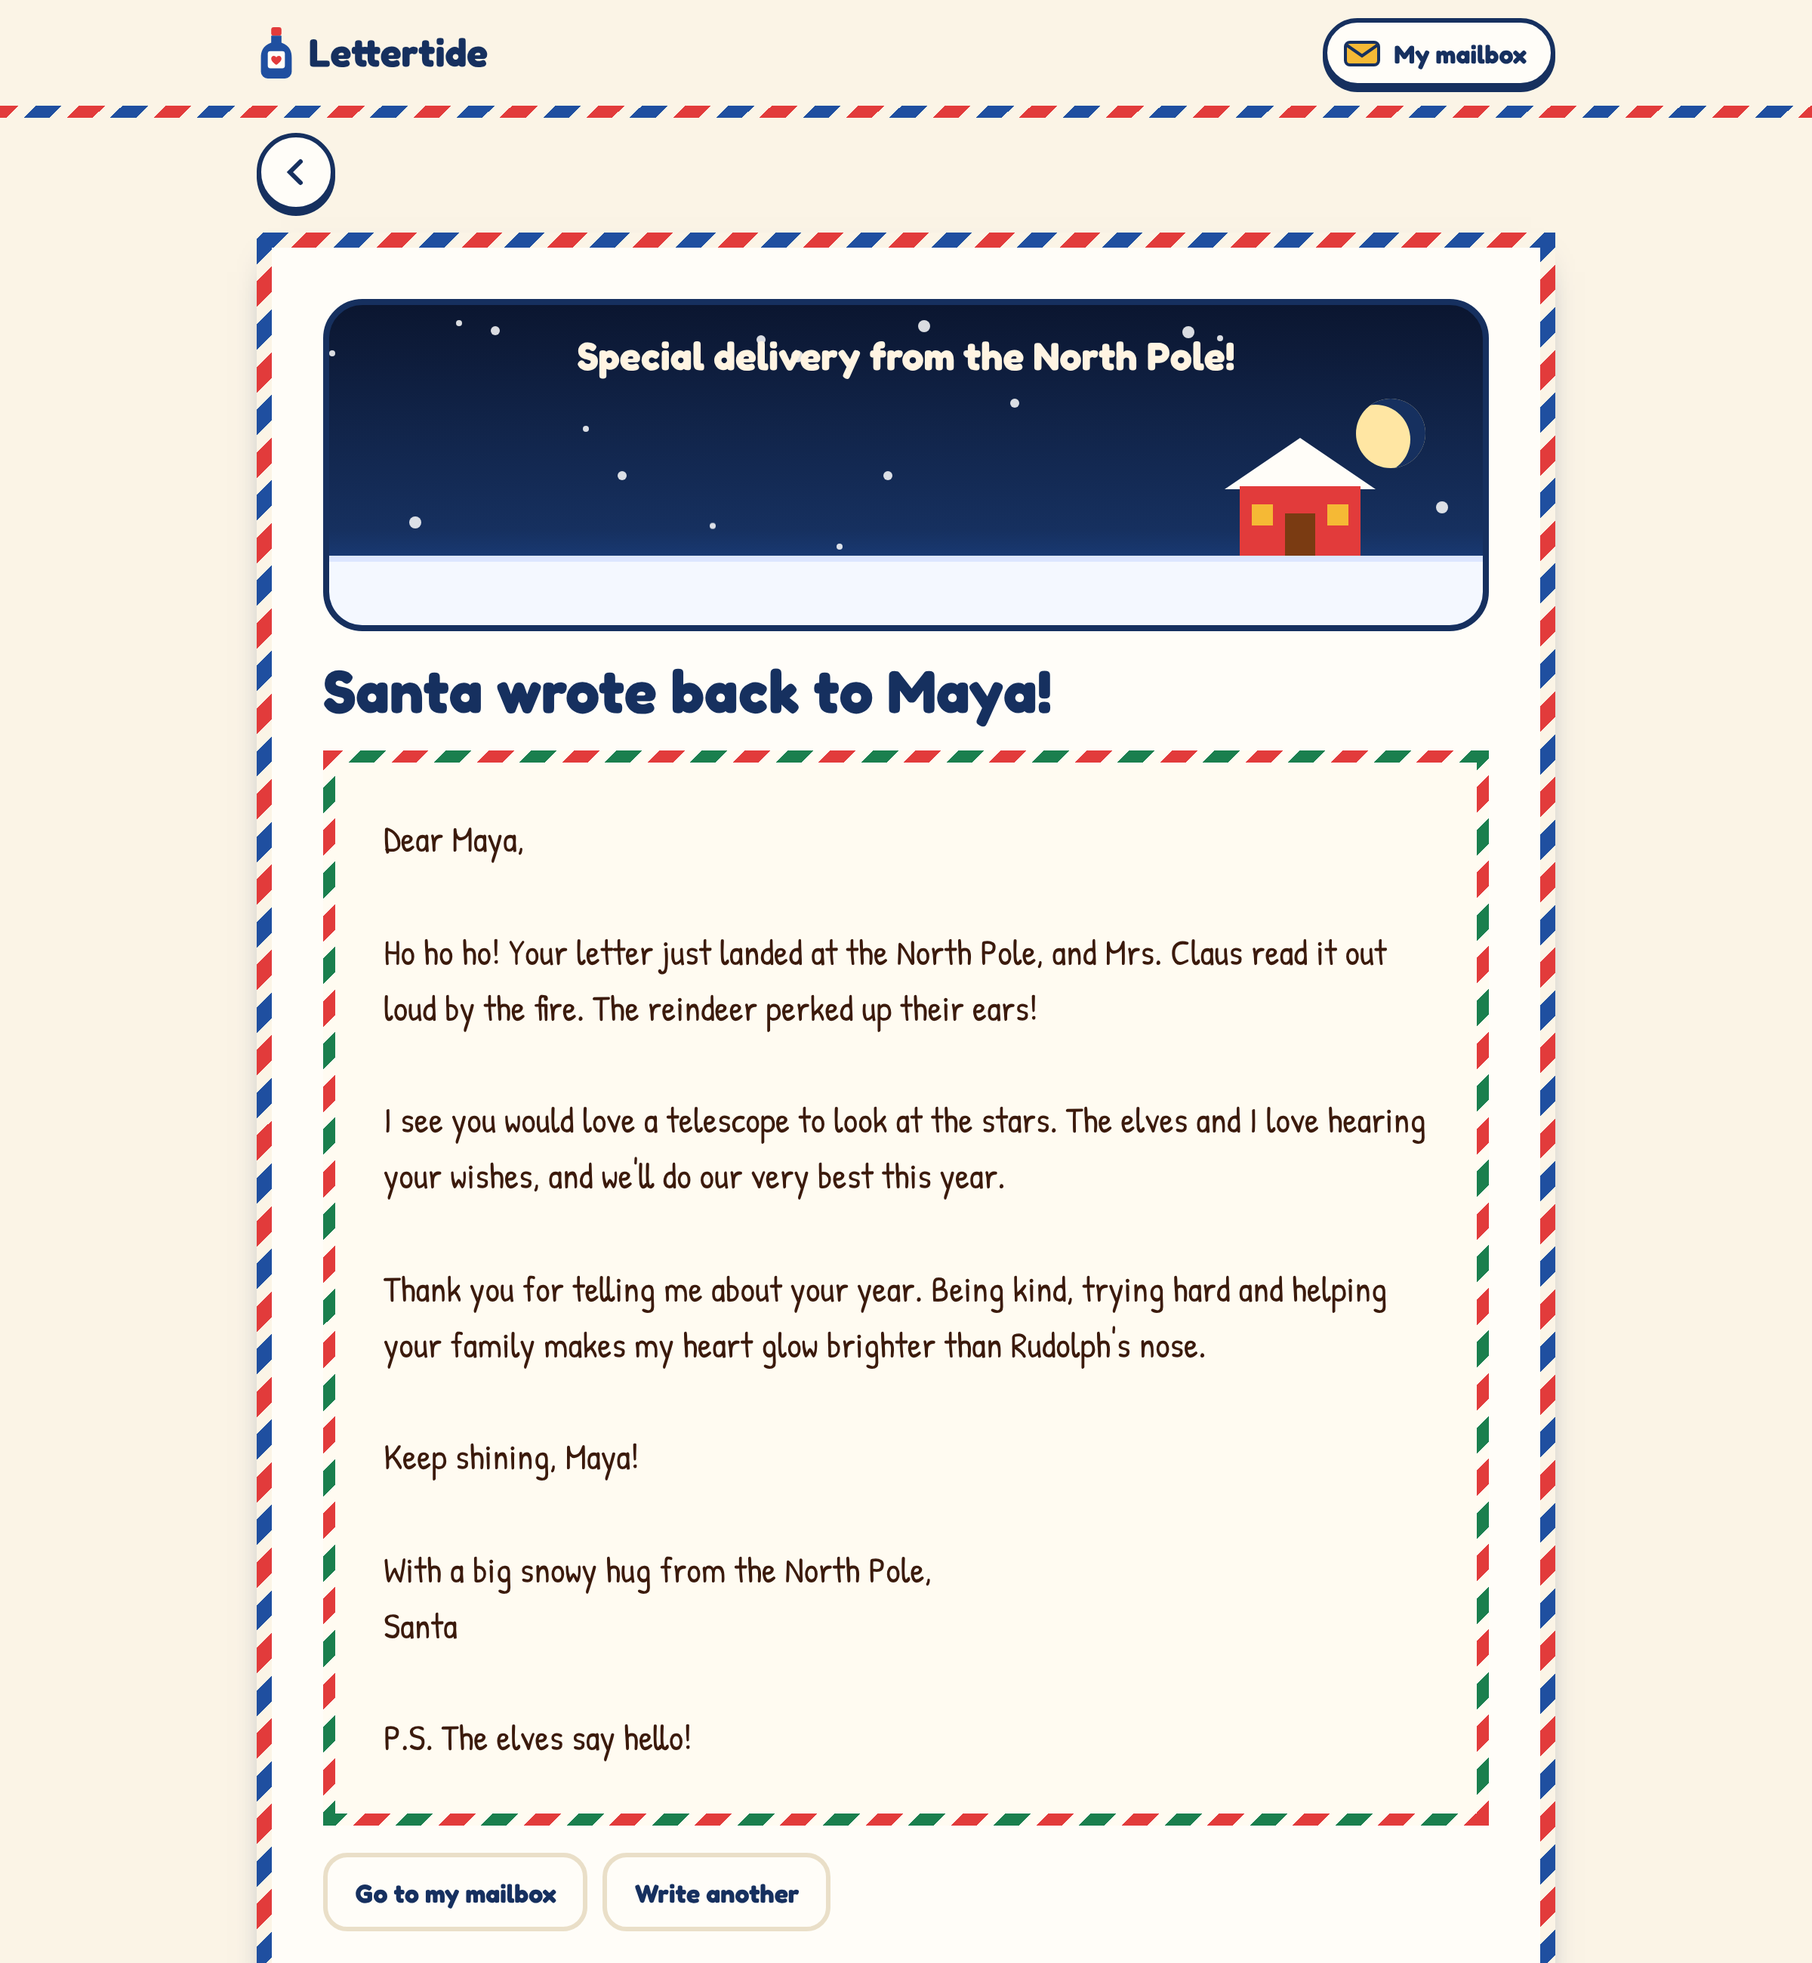
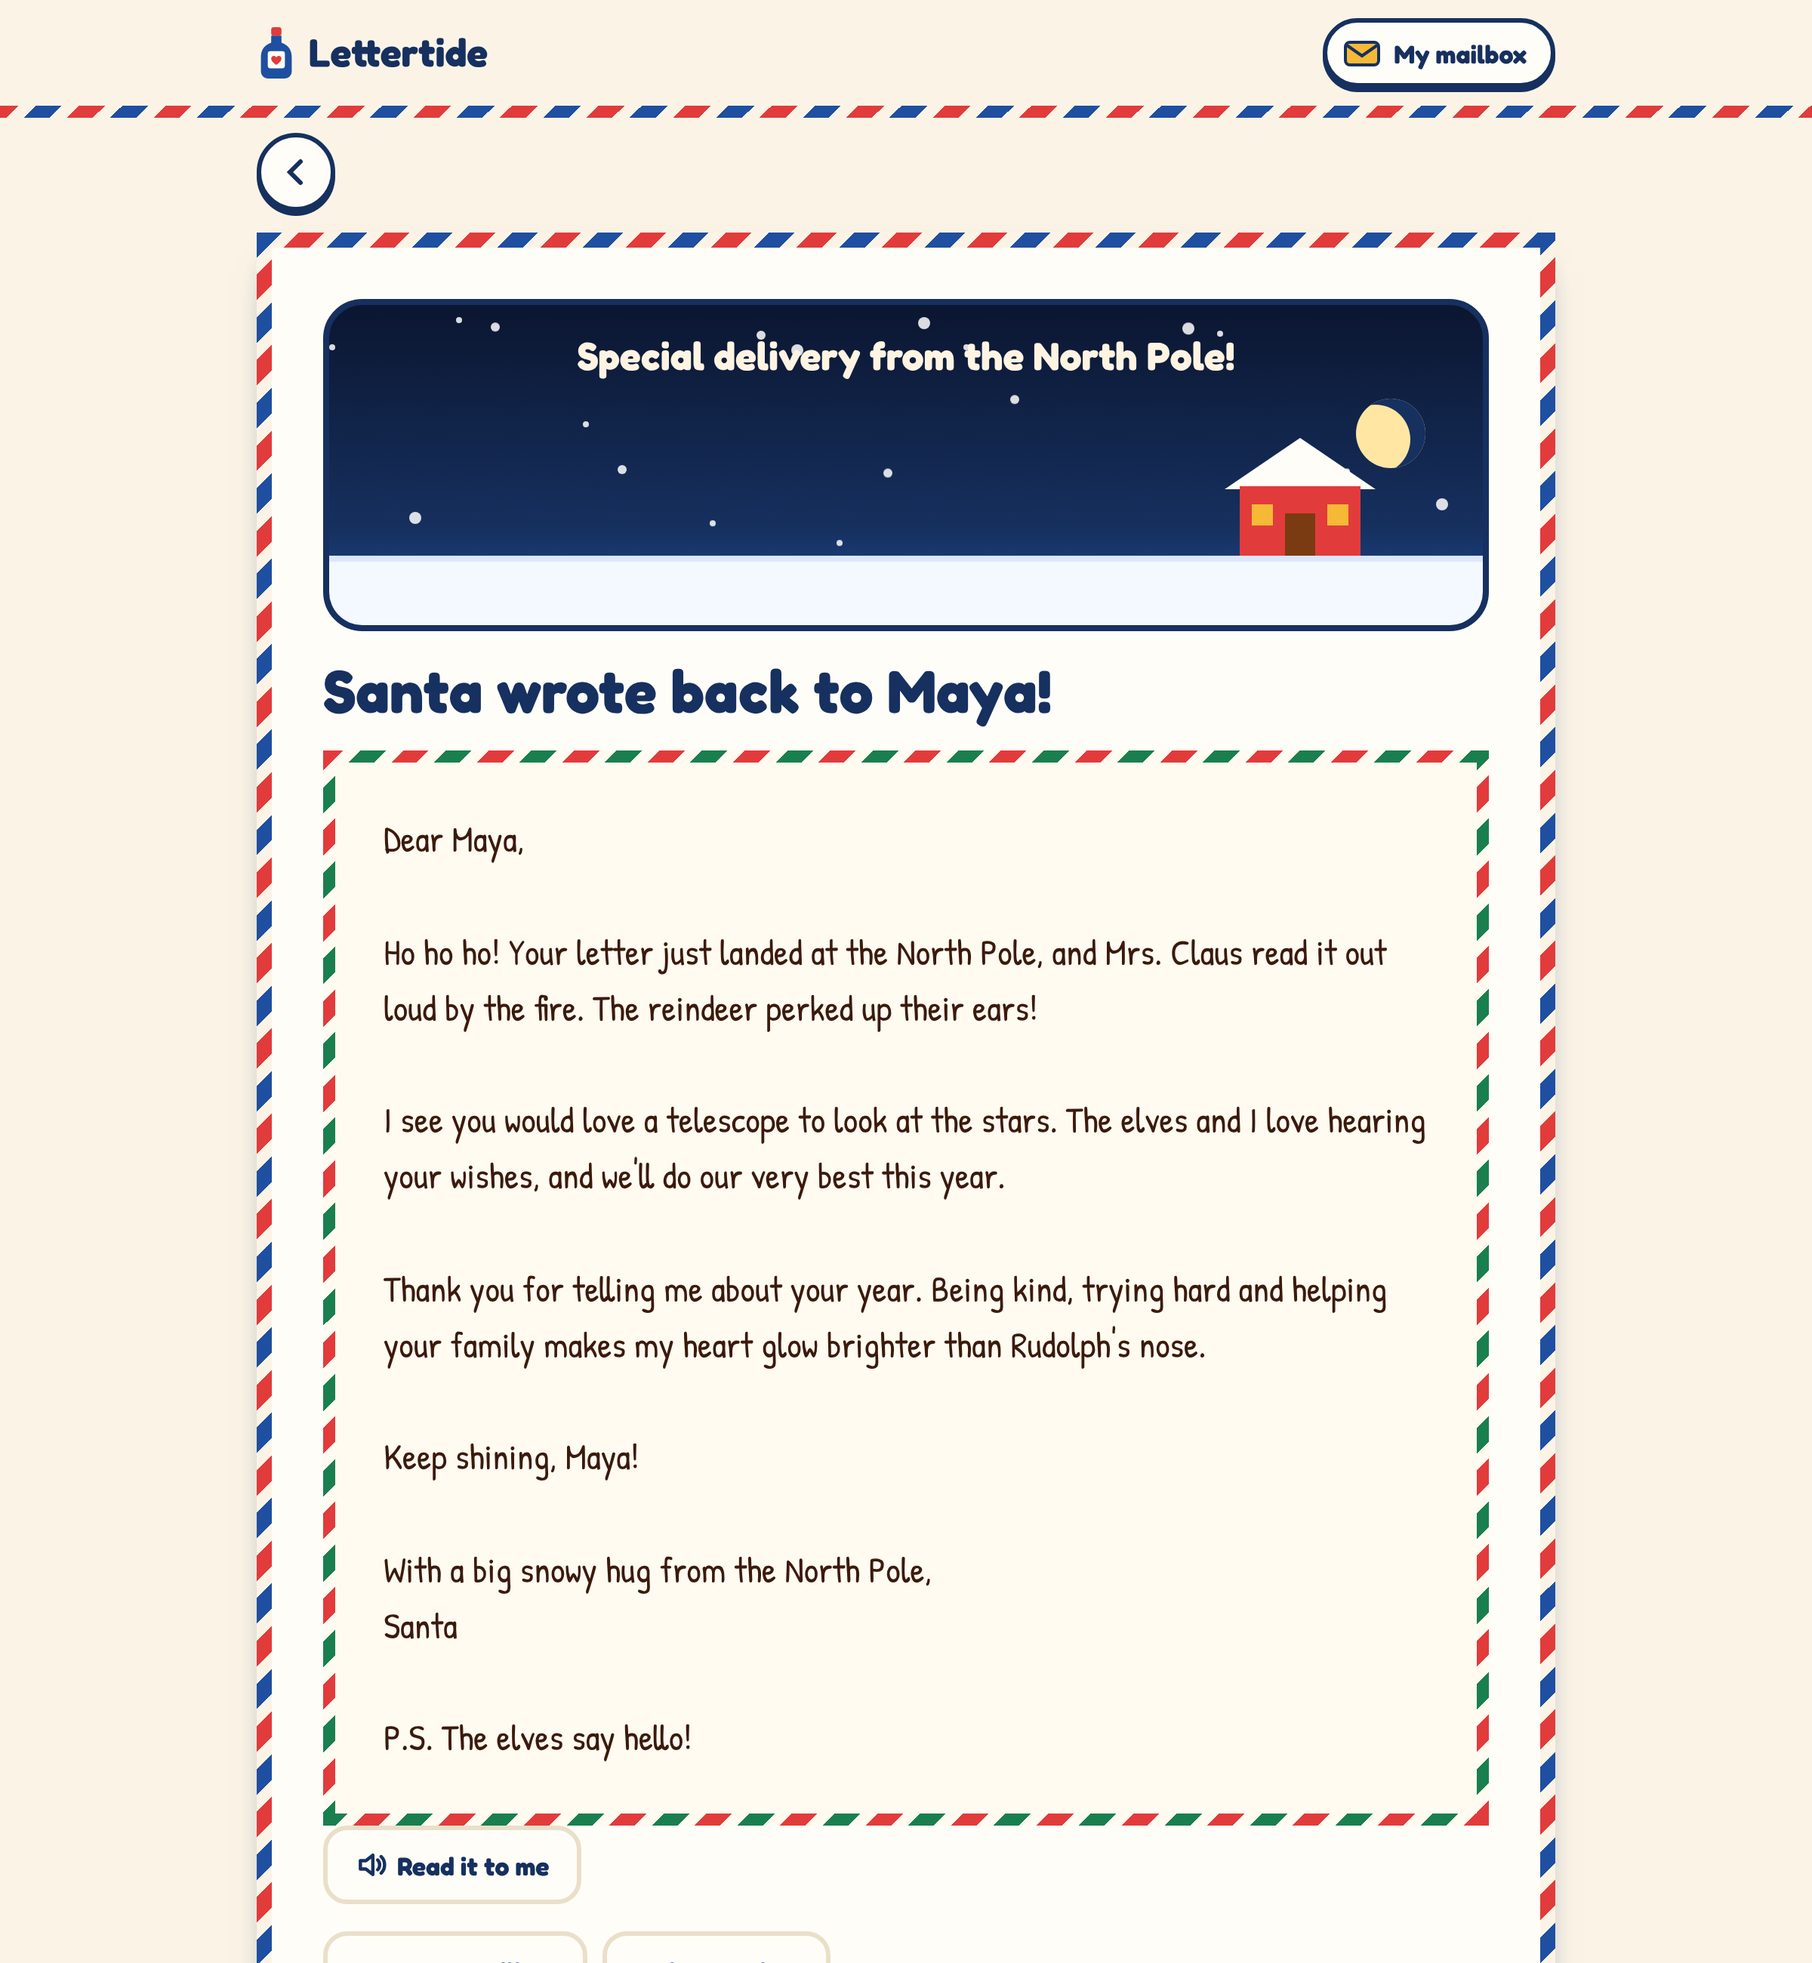
Talk instead of typing, and read letters aloud
Kids who can't write yet can speak their letter (browser speech
recognition); Santa's reply and arrived letters can be read aloud.

Claude-Session: https://claude.ai/code/session_01DTrxakbNKCcgw1AGmyGXff

Changed region(s): [[0.1875, 0.9346, 0.4688, 1.0], [0.8438, 0.9969, 0.875, 1.0], [0.125, 0.9969, 0.1562, 1.0]]

diff --git a/public/index.html b/public/index.html
@@ -112,6 +112,17 @@ textarea.write{width:100%;font:400 25px/1.6 var(--f-hand);color:var(--ink);backg
 .note{font-size:15px;color:var(--muted);margin:0}
 .ok{color:var(--mint);font-weight:800}
 
+/* voice */
+.talk{display:flex;align-items:center;gap:12px;flex-wrap:wrap}
+.mic{font:700 19px var(--f-display);display:inline-flex;align-items:center;gap:10px;border:3px solid var(--ink);background:var(--surface);color:var(--ink);border-radius:999px;padding:12px 22px 12px 16px;cursor:pointer;box-shadow:0 4px 0 var(--shadow);min-height:58px}
+.mic svg{width:28px;height:28px;color:var(--red)}
+.mic.on{background:var(--red);border-color:var(--red);color:#FFFDF8;animation:listen 1.2s ease-in-out infinite}
+.mic.on svg{color:#FFFDF8}
+@keyframes listen{50%{box-shadow:0 0 0 8px color-mix(in srgb,var(--red) 30%,transparent)}}
+.heard{font:400 22px/1.3 var(--f-hand);color:var(--muted);flex:1 1 200px;min-width:0}
+.speak svg{width:22px;height:22px;vertical-align:-4px;margin-right:6px}
+@media (prefers-reduced-motion:reduce){.mic.on{animation:none}}
+
 /* card designer */
 .swatches{display:flex;flex-wrap:wrap;gap:10px}
 .sw{width:58px;height:58px;border-radius:18px;border:3px solid var(--line);cursor:pointer;background:var(--s)}
@@ -232,6 +243,7 @@ footer{padding-block:10px 40px;text-align:center;color:var(--muted);font-size:15
     <p class="sub">Tell future you about today. Anything is fine!</p>
     <label for="f-body" class="sr">Your letter</label>
     <textarea id="f-body" class="write" data-draft placeholder="Dear future me,"></textarea>
+    <div class="talk" data-talk="f-body" hidden><button type="button" class="mic"><svg viewBox="0 0 24 24" fill="none" stroke="currentColor" stroke-width="2.4" stroke-linecap="round" aria-hidden="true"><rect x="9" y="3" width="6" height="11" rx="3"/><path d="M5 11a7 7 0 0 0 14 0M12 18v3"/></svg><span class="lbl">Talk instead of typing</span></button><span class="heard" aria-live="polite"></span></div>
     <div class="ideas" data-for="f-body"><span>Ideas:</span>
       <button type="button" class="idea">Right now I love…</button><button type="button" class="idea">I'm really good at…</button><button type="button" class="idea">I hope you…</button><button type="button" class="idea">Something funny that happened:</button><button type="button" class="idea">A question for you:</button>
     </div>
@@ -309,6 +321,7 @@ footer{padding-block:10px 40px;text-align:center;color:var(--muted);font-size:15
     <h2 id="p-write-title">Write your letter</h2>
     <label for="p-body" class="sr">Your letter</label>
     <textarea id="p-body" class="write" data-draft></textarea>
+    <div class="talk" data-talk="p-body" hidden><button type="button" class="mic"><svg viewBox="0 0 24 24" fill="none" stroke="currentColor" stroke-width="2.4" stroke-linecap="round" aria-hidden="true"><rect x="9" y="3" width="6" height="11" rx="3"/><path d="M5 11a7 7 0 0 0 14 0M12 18v3"/></svg><span class="lbl">Talk instead of typing</span></button><span class="heard" aria-live="polite"></span></div>
     <div class="ideas" data-for="p-body" id="p-ideas"></div>
     <p class="err" role="status"></p>
     <div class="next-row"><button class="big go" type="button" data-next>Next</button></div>
@@ -359,6 +372,7 @@ footer{padding-block:10px 40px;text-align:center;color:var(--muted);font-size:15
     <h2>Write to Santa</h2>
     <label for="s-body" class="sr">Your letter to Santa</label>
     <textarea id="s-body" class="write" data-draft placeholder="Dear Santa,"></textarea>
+    <div class="talk" data-talk="s-body" hidden><button type="button" class="mic"><svg viewBox="0 0 24 24" fill="none" stroke="currentColor" stroke-width="2.4" stroke-linecap="round" aria-hidden="true"><rect x="9" y="3" width="6" height="11" rx="3"/><path d="M5 11a7 7 0 0 0 14 0M12 18v3"/></svg><span class="lbl">Talk instead of typing</span></button><span class="heard" aria-live="polite"></span></div>
     <div class="ideas" data-for="s-body"><span>Ideas:</span>
       <button type="button" class="idea">This year I was good at…</button><button type="button" class="idea">Something kind I did:</button><button type="button" class="idea">I would love…</button><button type="button" class="idea">My family and I…</button><button type="button" class="idea">A question for you:</button><button type="button" class="idea">Say hi to Rudolph!</button>
     </div>
@@ -738,7 +752,7 @@ $('#s-send').onclick = async () => {
       reply = r.text.trim();
     } else reply = santaTemplate(name, body);
   } catch (e) { reply = santaTemplate(name, body); }
-  box.textContent = ''; paper.textContent = reply; box.append(paper);
+  box.textContent = ''; paper.textContent = reply; box.append(paper, el('div', { className:'actions' }, readAloud(() => paper.textContent)));
   $('#s-cap').textContent = 'Special delivery from the North Pole!';
   $('#s-done-title').textContent = `Santa wrote back to ${name}!`;
   try { await Store.add({ id: uid(), kind:'santa', created: Date.now(), deliver: Date.now(), name, age, body, reply }); clearDraft(['s-body']); refreshBadge(); }
@@ -830,7 +844,7 @@ async function openItem(r){
   const now = Date.now();
   if (r.kind === 'santa') {
     const card = readShell('var(--santa)', `${r.name}'s letter to Santa`);
-    card.append(el('p', { className:'note', textContent: fmt(r.created) }), el('div', { className:'parch', textContent: r.body }), el('h2', { textContent:'Santa wrote back' }), el('div', { className:'parch santa', textContent: r.reply }), el('div', { className:'actions' }, deleteBtn(r)));
+    card.append(el('p', { className:'note', textContent: fmt(r.created) }), el('div', { className:'parch', textContent: r.body }), el('h2', { textContent:'Santa wrote back' }), el('div', { className:'parch santa', textContent: r.reply }), el('div', { className:'actions' }, readAloud(() => r.reply), deleteBtn(r)));
     return;
   }
   if (r.kind === 'people') {
@@ -864,7 +878,7 @@ function showFuture(r, l){
   if (!r.opened && !r.sample) { r.opened = Date.now(); Store.update(r.id, { opened: r.opened }).catch(() => {}); refreshBadge(); }
   const yrs = (r.deliver - r.created) / DAY / 365.25;
   const card = readShell('var(--sky)', `A letter from ${fmt(r.created)}`);
-  card.append(el('p', { className:'sub', textContent: (r.sample ? 'Example letter. ' : '') + `It floated at sea for ${yrs >= 1 ? yrs.toFixed(1) + ' years' : Math.max(1, Math.round(yrs * 12)) + ' months'}.` }), el('div', { className:'parch', textContent: l.body }));
+  card.append(el('p', { className:'sub', textContent: (r.sample ? 'Example letter. ' : '') + `It floated at sea for ${yrs >= 1 ? yrs.toFixed(1) + ' years' : Math.max(1, Math.round(yrs * 12)) + ' months'}.` }), el('div', { className:'parch', textContent: l.body }), el('div', { className:'actions' }, readAloud(() => l.body)));
   const caps = CAPS.filter(([k]) => l.capsule?.[k]);
   if (caps.length) { card.append(el('h2', { textContent:'Then and now' })); caps.forEach(([k, q]) => card.append(el('div', { className:'tn' }, el('div', { className:'q', textContent:q }), el('div', { className:'then', textContent:l.capsule[k] }), el('input', { type:'text', className:'field', id:'now-' + k, placeholder:'And now?', 'aria-label': q + ' now' })))); }
   if (l.guess) {
@@ -875,6 +889,46 @@ function showFuture(r, l){
   wb.onclick = () => { $('#f-body').value = `Dear future me,\n\nA letter from ${fmt(r.created)} just washed ashore! Here's my answer:\n\n`; draft.chain = (r.chain || 1) + 1; saveDraft(); location.hash = 'future'; };
   card.append(el('div', { className:'actions' }, wb, deleteBtn(r)));
 }
+
+/* ================= voice: talk instead of typing, and read it to me ================= */
+const SR = window.SpeechRecognition || window.webkitSpeechRecognition;
+let rec = null, recBox = null;
+function addSpoken(ta, t){
+  t = t.trim(); if (!t) return;
+  let s = t.charAt(0).toUpperCase() + t.slice(1); if (!/[.!?]$/.test(s)) s += '.';
+  const base = ta.value.replace(/[ \t]*$/, '');
+  ta.value = base + (base && !base.endsWith('\n') ? ' ' : '') + s;
+  ta.scrollTop = ta.scrollHeight; saveDraft();
+}
+function stopTalking(){ if (rec) { try { rec.abort(); } catch {} } }
+if (SR) $$('[data-talk]').forEach(box => {
+  box.hidden = false;
+  const btn = $('.mic', box), label = $('.lbl', box), heard = $('.heard', box), ta = document.getElementById(box.dataset.talk);
+  btn.onclick = () => {
+    if (rec && recBox === box) { rec.stop(); return; }
+    stopTalking();
+    const r = new SR(); r.lang = navigator.language || 'en-US'; r.interimResults = true; r.continuous = true;
+    let problem = '';
+    rec = r; recBox = box; btn.classList.add('on'); label.textContent = 'Listening… tap to stop'; heard.textContent = 'Say your letter out loud.';
+    r.onresult = e => { let interim = ''; for (let i = e.resultIndex; i < e.results.length; i++) { const t = e.results[i][0].transcript; if (e.results[i].isFinal) addSpoken(ta, t); else interim += t; } heard.textContent = interim; };
+    r.onerror = e => { problem = (e.error === 'not-allowed' || e.error === 'service-not-allowed') ? 'The microphone is blocked. Allow it in your browser, or type instead.' : e.error === 'no-speech' ? 'I didn’t hear anything. Tap the button and try again.' : e.error === 'aborted' ? '' : 'Talking stopped. Tap the button to try again.'; };
+    r.onend = () => { btn.classList.remove('on'); label.textContent = 'Talk instead of typing'; heard.textContent = problem; if (rec === r) { rec = null; recBox = null; } };
+    try { r.start(); } catch { btn.classList.remove('on'); label.textContent = 'Talk instead of typing'; heard.textContent = 'Talking isn’t available here. Try typing instead.'; rec = null; }
+  };
+});
+const SPEAKER = '<svg viewBox="0 0 24 24" fill="none" stroke="currentColor" stroke-width="2.4" stroke-linecap="round" stroke-linejoin="round" aria-hidden="true"><path d="M4 9h4l5-4v14l-5-4H4z"/><path d="M16.5 8.5a5 5 0 0 1 0 7M19 6a8.5 8.5 0 0 1 0 12"/></svg>';
+function readAloud(getText){
+  if (!('speechSynthesis' in window)) return '';
+  const b = el('button', { type:'button', className:'soft speak', innerHTML: SPEAKER }); const t = document.createTextNode('Read it to me'); b.append(t);
+  b.onclick = () => {
+    if (speechSynthesis.speaking) { speechSynthesis.cancel(); t.textContent = 'Read it to me'; return; }
+    const u = new SpeechSynthesisUtterance(getText()); u.rate = 0.92; u.lang = navigator.language || 'en-US';
+    u.onend = u.onerror = () => { t.textContent = 'Read it to me'; };
+    speechSynthesis.speak(u); t.textContent = 'Stop reading';
+  };
+  return b;
+}
+addEventListener('hashchange', () => { stopTalking(); try { speechSynthesis.cancel(); } catch {} });
 
 /* ================= routing ================= */
 function show(){

diff --git a/README.md b/README.md
@@ -21,7 +21,7 @@ Lettertide brings every letter that matters into one bright, friendly place, whe
 | | A typical future-letter site | Lettertide |
 |---|---|---|
 | **Who you can write to** | Yourself | Future you, anyone you love, and Santa |
-| **Made for** | Adults who like to write | Kids and grown-ups: one question per screen, big buttons, idea starters |
+| **Made for** | Adults who like to write | Kids and grown-ups: one question per screen, big buttons, idea starters, talk instead of typing, and read-aloud |
 | **Look and feel** | A form | A real letter: airmail stripes, stamps, handwriting, and a bottle floating out to sea |
 | **When it arrives** | One date, one email | Months to 100 years later, on Thanksgiving, on any day, or right now |
 | **What comes back** | The letter | The letter, a time capsule shown "then and now", a guess to check, and a "write back" button that keeps the conversation going |
@@ -33,6 +33,7 @@ Lettertide brings every letter that matters into one bright, friendly place, whe
 ### What makes it special
 
 - **Three kinds of letters, one home.** Future me, Someone special, and Santa all live in the same mailbox.
+- **Talk instead of typing.** Kids who can't write yet tap the microphone and say their letter; it appears as written sentences. A **Read it to me** button reads Santa's reply and arrived letters out loud for kids who can't read yet.
 - **Made for small hands.** One question at a time, giant tap targets, a progress trail of dots, and idea buttons like *"Right now I love…"* or *"This year I'm thankful for you because…"* for when a child gets stuck.
 - **Letters that answer back.** A future letter brings back a time capsule (favorite food, best friend, what I want to be) beside empty boxes for who you are now, asks whether your guess came true, and lets you write back to the future.
 - **Santa writes back, safely.** Santa never promises a specific present, never asks for an address or school, never suggests keeping secrets, and gently tells a child to talk to a trusted grown-up if they mention being hurt or scared.
